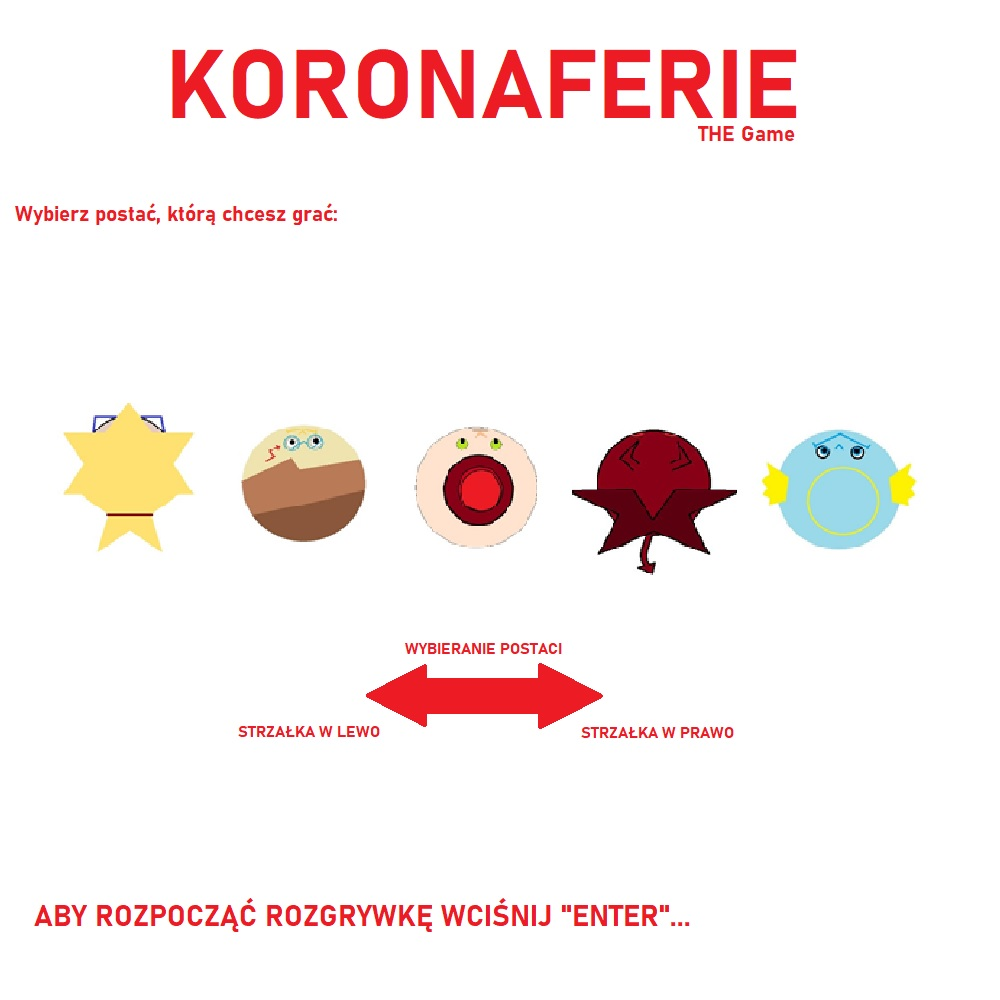
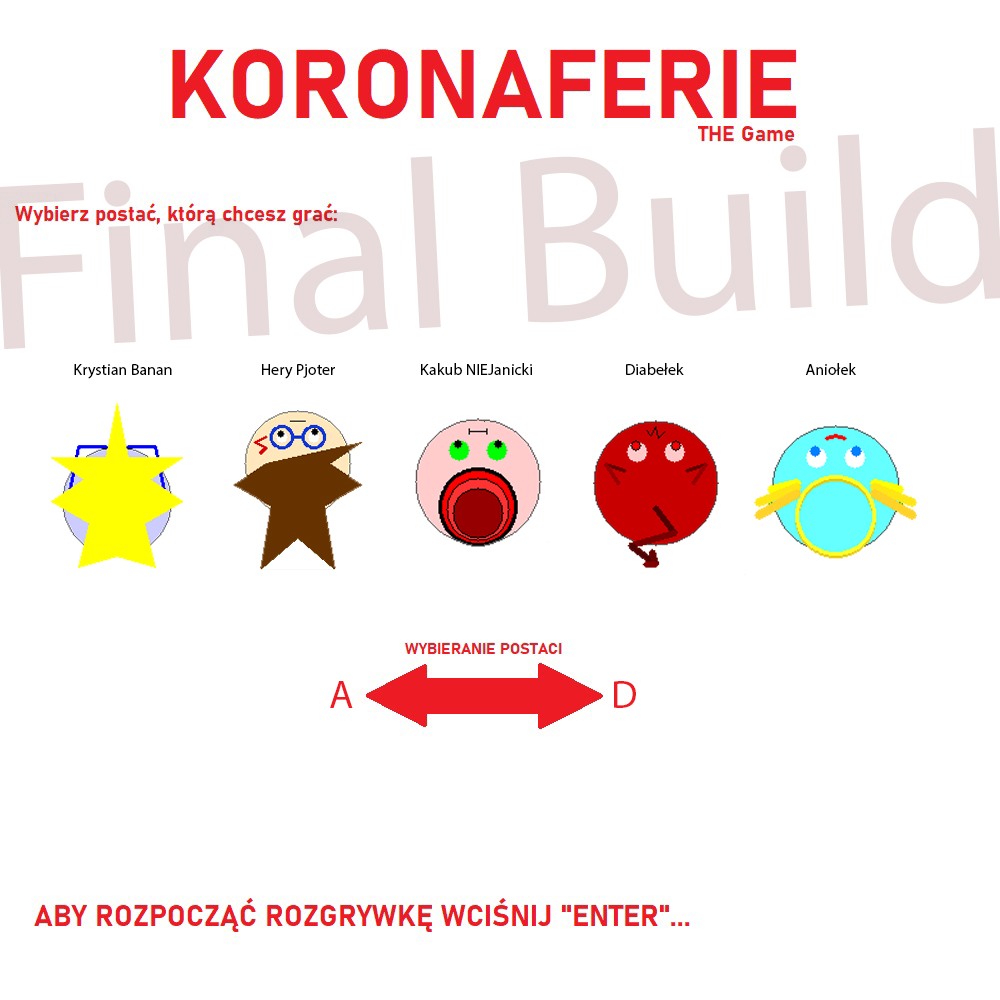
POSTACIE I EKRAN WYBORU POSTACI (#12)
* 3 postaci z pieciu. Mało wydajnie, ale kto by się przejmował wydajnością pisząc na bibliotece openCV :)

* +Ostateczny update wyglądu postaci
+Ekran wyboru postaci w wersji FINAL

diff --git a/Game.cpp b/Game.cpp
@@ -96,7 +96,8 @@ void Game::chooseCharacter() {
             ChoiceWindow.textboxUpdate(windowName);
 
             Player.characterName = ChoiceWindow.chosenCharacterName;
-            cout << "Wybrano postac: " << ChoiceWindow.chosenCharacter << ", jej nazwa to: " << Player.characterName;
+            Player.characterSkin = ChoiceWindow.chosenCharacter;
+            cout << "Wybrano postac: " << Player.characterSkin << ", jej nazwa to: " << Player.characterName;
             return;
         }
     }

diff --git a/Character.h b/Character.h
@@ -26,5 +26,7 @@ public:
 
 private:
 
+	bool skinInitialized = false;
+
 
 };
